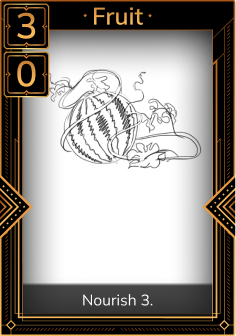
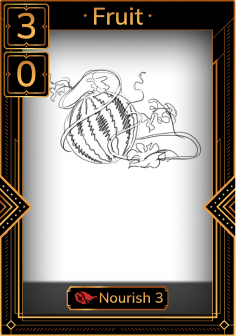
Added Nourish to most cards

Changed region(s): [[0.089, 0.8333, 0.9195, 0.9226]]

diff --git a/src/lib/card.ts b/src/lib/card.ts
@@ -173,7 +173,7 @@ export default class Card {
         regex = new RegExp(/\b/.source + keyword.key + /\b/.source, "i")
       }
       else {
-        regex = new RegExp(/\b/.source + keyword.key + ' ' + /(X|[0-9]*)\b/.source, "i")
+        regex = new RegExp(/\b/.source + keyword.key + ' ' + /(X|-?[0-9]*)\b/.source, "i")
       }
 
       let match = cardText.match(regex)
@@ -192,6 +192,9 @@ export default class Card {
       if (x) {
         // NOTE This is replaceAll, but supported on all architectures
         txt = txt.split(/\bX\b/).join(x)
+
+        // NOTE Special case for occurences of +X, where X could be -N, so you want -N instead of +-N
+        txt = txt.split(/\+\-/).join('-')
       }
 
       cardText += txt

diff --git a/src/lib/keywordLabel.ts b/src/lib/keywordLabel.ts
@@ -38,6 +38,9 @@ export class KeywordLabel extends Phaser.GameObjects.Image {
 		// If this keyword has an X, replace all occurences with its value
 		if (this.value !== undefined) {
 			s = s.replace(/X/g, this.value.toString())
+
+			// NOTE Special case for occurences of +X, where X could be -N, so you want -N instead of +-N
+        	s = s.split(/\+\-/).join('-')
 		}
 
 		let hint = this.scene['hint']

diff --git a/src/scene/preloadScene.ts b/src/scene/preloadScene.ts
@@ -195,7 +195,7 @@ export default class PreloadClass extends Phaser.Scene {
 			}
 			else {
 				// NOTE Some of these may not exist, but all that exist are covered here
-				['X','1','2','3','4','5','6','7','8','9'].forEach(n => {
+				['-4','1','2','3','4'].forEach(n => {
 					const s = keyword.key
 					try {
 						this.load.image(`kw-${s} ${n}`, `keywords/${s} ${n}.png`)
